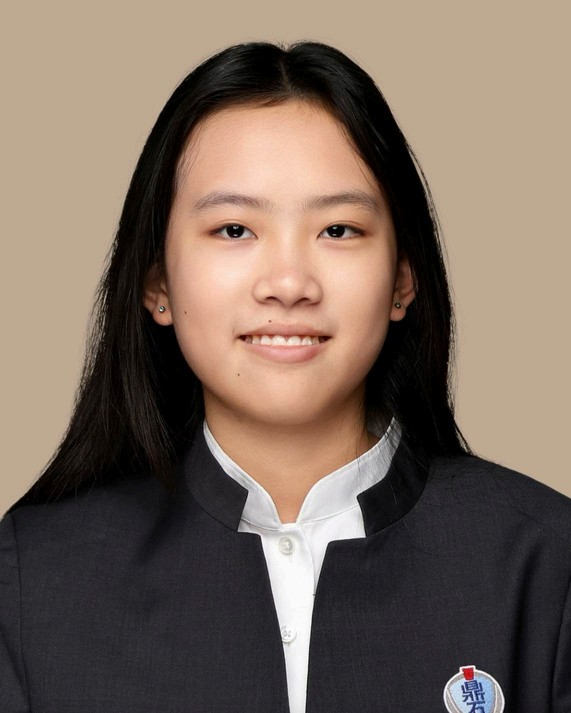
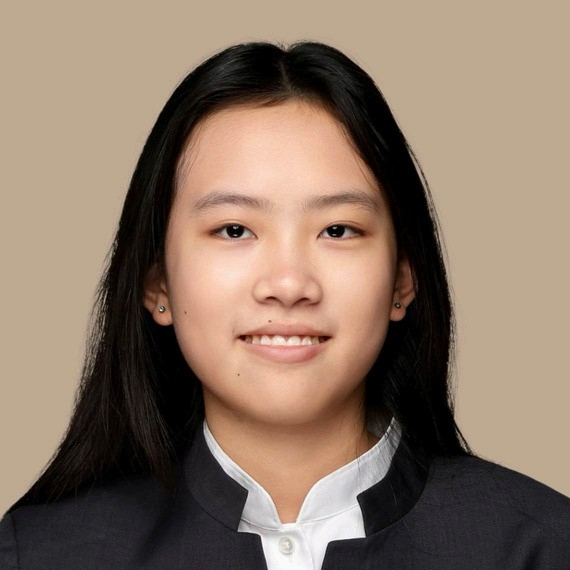
team done

diff --git a/src/pages/Team.jsx b/src/pages/Team.jsx
@@ -1,0 +1,98 @@
+import { Link } from 'react-router-dom'
+import Footer from '../components/Footer'
+
+function Team() {
+  const teamMembers = [
+    {
+      name: 'Alicia Chai',
+      role: 'FOUNDER',
+      image: '/team1.png'
+    },
+    {
+      name: 'Page Zhang',
+      role: 'LEADER',
+      image: '/team2.png'
+    },
+    {
+      name: 'Will Wang',
+      role: 'LEADER',
+      image: '/team3.png'
+    },
+    {
+      name: 'Gaga Shen',
+      role: 'LEADER',
+      image: '/team4.png'
+    }
+  ]
+
+  return (
+    <div className="min-h-screen w-full">
+      {/* Team Section */}
+      <section 
+        className="relative min-h-screen w-full snap-start flex flex-col"
+        style={{ backgroundColor: '#252627' }}
+      >
+        {/* Header with Back Button and Title */}
+        <div className="relative w-full flex items-center justify-center" style={{ paddingTop: '2rem', paddingBottom: '1rem' }}>
+          {/* Back Button */}
+          <Link 
+            to="/" 
+            className="absolute left-8 md:left-12 z-20 flex items-center gap-3 hover:opacity-80 transition-opacity group"
+          >
+            <svg 
+              className="w-6 h-6 md:w-8 md:h-8 text-white transform group-hover:-translate-x-1 transition-transform" 
+              fill="none" 
+              stroke="currentColor" 
+              viewBox="0 0 24 24"
+            >
+              <path 
+                strokeLinecap="round" 
+                strokeLinejoin="round" 
+                strokeWidth={2} 
+                d="M15 19l-7-7 7-7" 
+              />
+            </svg>
+            <span className="font-anton text-xl md:text-2xl text-white">BACK</span>
+          </Link>
+
+          {/* Title - centered */}
+          <h2 className="font-anton text-3xl md:text-4xl lg:text-5xl xl:text-6xl text-white">
+            Our Team
+          </h2>
+        </div>
+
+        {/* Horizontal Line - longer than images */}
+        <div className="w-full flex justify-center mb-8 md:mb-10 lg:mb-12" style={{ paddingLeft: 'clamp(4rem, 8vw, 8rem)', paddingRight: 'clamp(4rem, 8vw, 8rem)' }}>
+          <div className="w-full max-w-[1200px] h-0.5 bg-white"></div>
+        </div>
+
+        {/* Team Members Grid - centered */}
+        <div className="flex-1 flex items-center justify-center" style={{ paddingLeft: 'clamp(4rem, 8vw, 8rem)', paddingRight: 'clamp(4rem, 8vw, 8rem)', paddingBottom: '1rem' }}>
+          <div className="grid grid-cols-1 md:grid-cols-2 gap-x-2 md:gap-x-16 lg:gap-x-24 xl:gap-x-32 gap-y-2 md:gap-y-4 lg:gap-y-6 max-w-6xl mx-auto">
+            {teamMembers.map((member, index) => (
+              <div key={index} className="flex flex-col items-start">
+                <img 
+                  src={member.image} 
+                  alt={member.name} 
+                  className="w-full max-w-[200px] md:max-w-[220px] lg:max-w-[260px] h-auto object-cover mb-3 md:mb-4"
+                  style={{ borderRadius: '8px', marginTop: '0rem' }}
+                />
+                <h3 className="font-anton text-xl md:text-2xl lg:text-3xl text-white mb-2 md:mb-3 text-left"style={{marginTop: '1rem' }}>
+                  {member.name}
+                </h3>
+                <p className="font-anton text-white text-base md:text-l lg:text-lg text-left">
+                  {member.role}
+                </p>
+              </div>
+            ))}
+          </div>
+        </div>
+      </section>
+
+      <Footer />
+    </div>
+  )
+}
+
+export default Team
+

diff --git a/src/components/Navbar.jsx b/src/components/Navbar.jsx
@@ -4,9 +4,10 @@ function Navbar() {
   const location = useLocation()
   const isHome = location.pathname === '/'
   const isAbout = location.pathname === '/about'
+  const isTeam = location.pathname === '/team'
   
-  // 根据页面决定文字颜色
-  const textColor = isHome ? 'text-white' : 'text-[#252627]'
+  // 根据页面决定文字颜色：Home 和 Team 是深色背景用白色文字，About 是浅色背景用深色文字
+  const textColor = (isHome || isTeam) ? 'text-white' : 'text-[#252627]'
 
   return (
     <div className="absolute top-8 left-12 right-16 z-20 flex items-center">
@@ -38,12 +39,12 @@ function Navbar() {
         >
           ABOUT
         </Link>
-        <a 
-          href="#team" 
+        <Link 
+          to="/team" 
           className={`font-anton text-2xl md:text-3xl uppercase tracking-wide hover:opacity-80 transition-opacity ${textColor}`}
         >
           TEAM
-        </a>
+        </Link>
         <a 
           href="#events" 
           className={`font-anton text-2xl md:text-3xl uppercase tracking-wide hover:opacity-80 transition-opacity ${textColor}`}

diff --git a/src/App.jsx b/src/App.jsx
@@ -1,6 +1,7 @@
 import { BrowserRouter as Router, Routes, Route } from 'react-router-dom'
 import Home from './pages/Home'
 import About from './pages/About'
+import Team from './pages/Team'
 import './App.css'
 
 function App() {
@@ -9,6 +10,7 @@ function App() {
       <Routes>
         <Route path="/" element={<Home />} />
         <Route path="/about" element={<About />} />
+        <Route path="/team" element={<Team />} />
       </Routes>
     </Router>
   )

diff --git a/src/components/Footer.jsx b/src/components/Footer.jsx
@@ -1,7 +1,7 @@
-function Footer() {
+function Footer({ disableSnap = false }) {
   return (
     <footer 
-      className="w-full flex-shrink-0"
+      className={`w-full ${disableSnap ? 'flex-shrink-0' : 'snap-start snap-always'}`}
       style={{ backgroundColor: '#818d71' }}
     >
       <div 

diff --git a/src/pages/About.jsx b/src/pages/About.jsx
@@ -174,7 +174,7 @@ function About() {
         </div>
 
         {/* Footer inside the same section */}
-        <Footer />
+        <Footer disableSnap={true} />
       </section>
     </div>
   )
